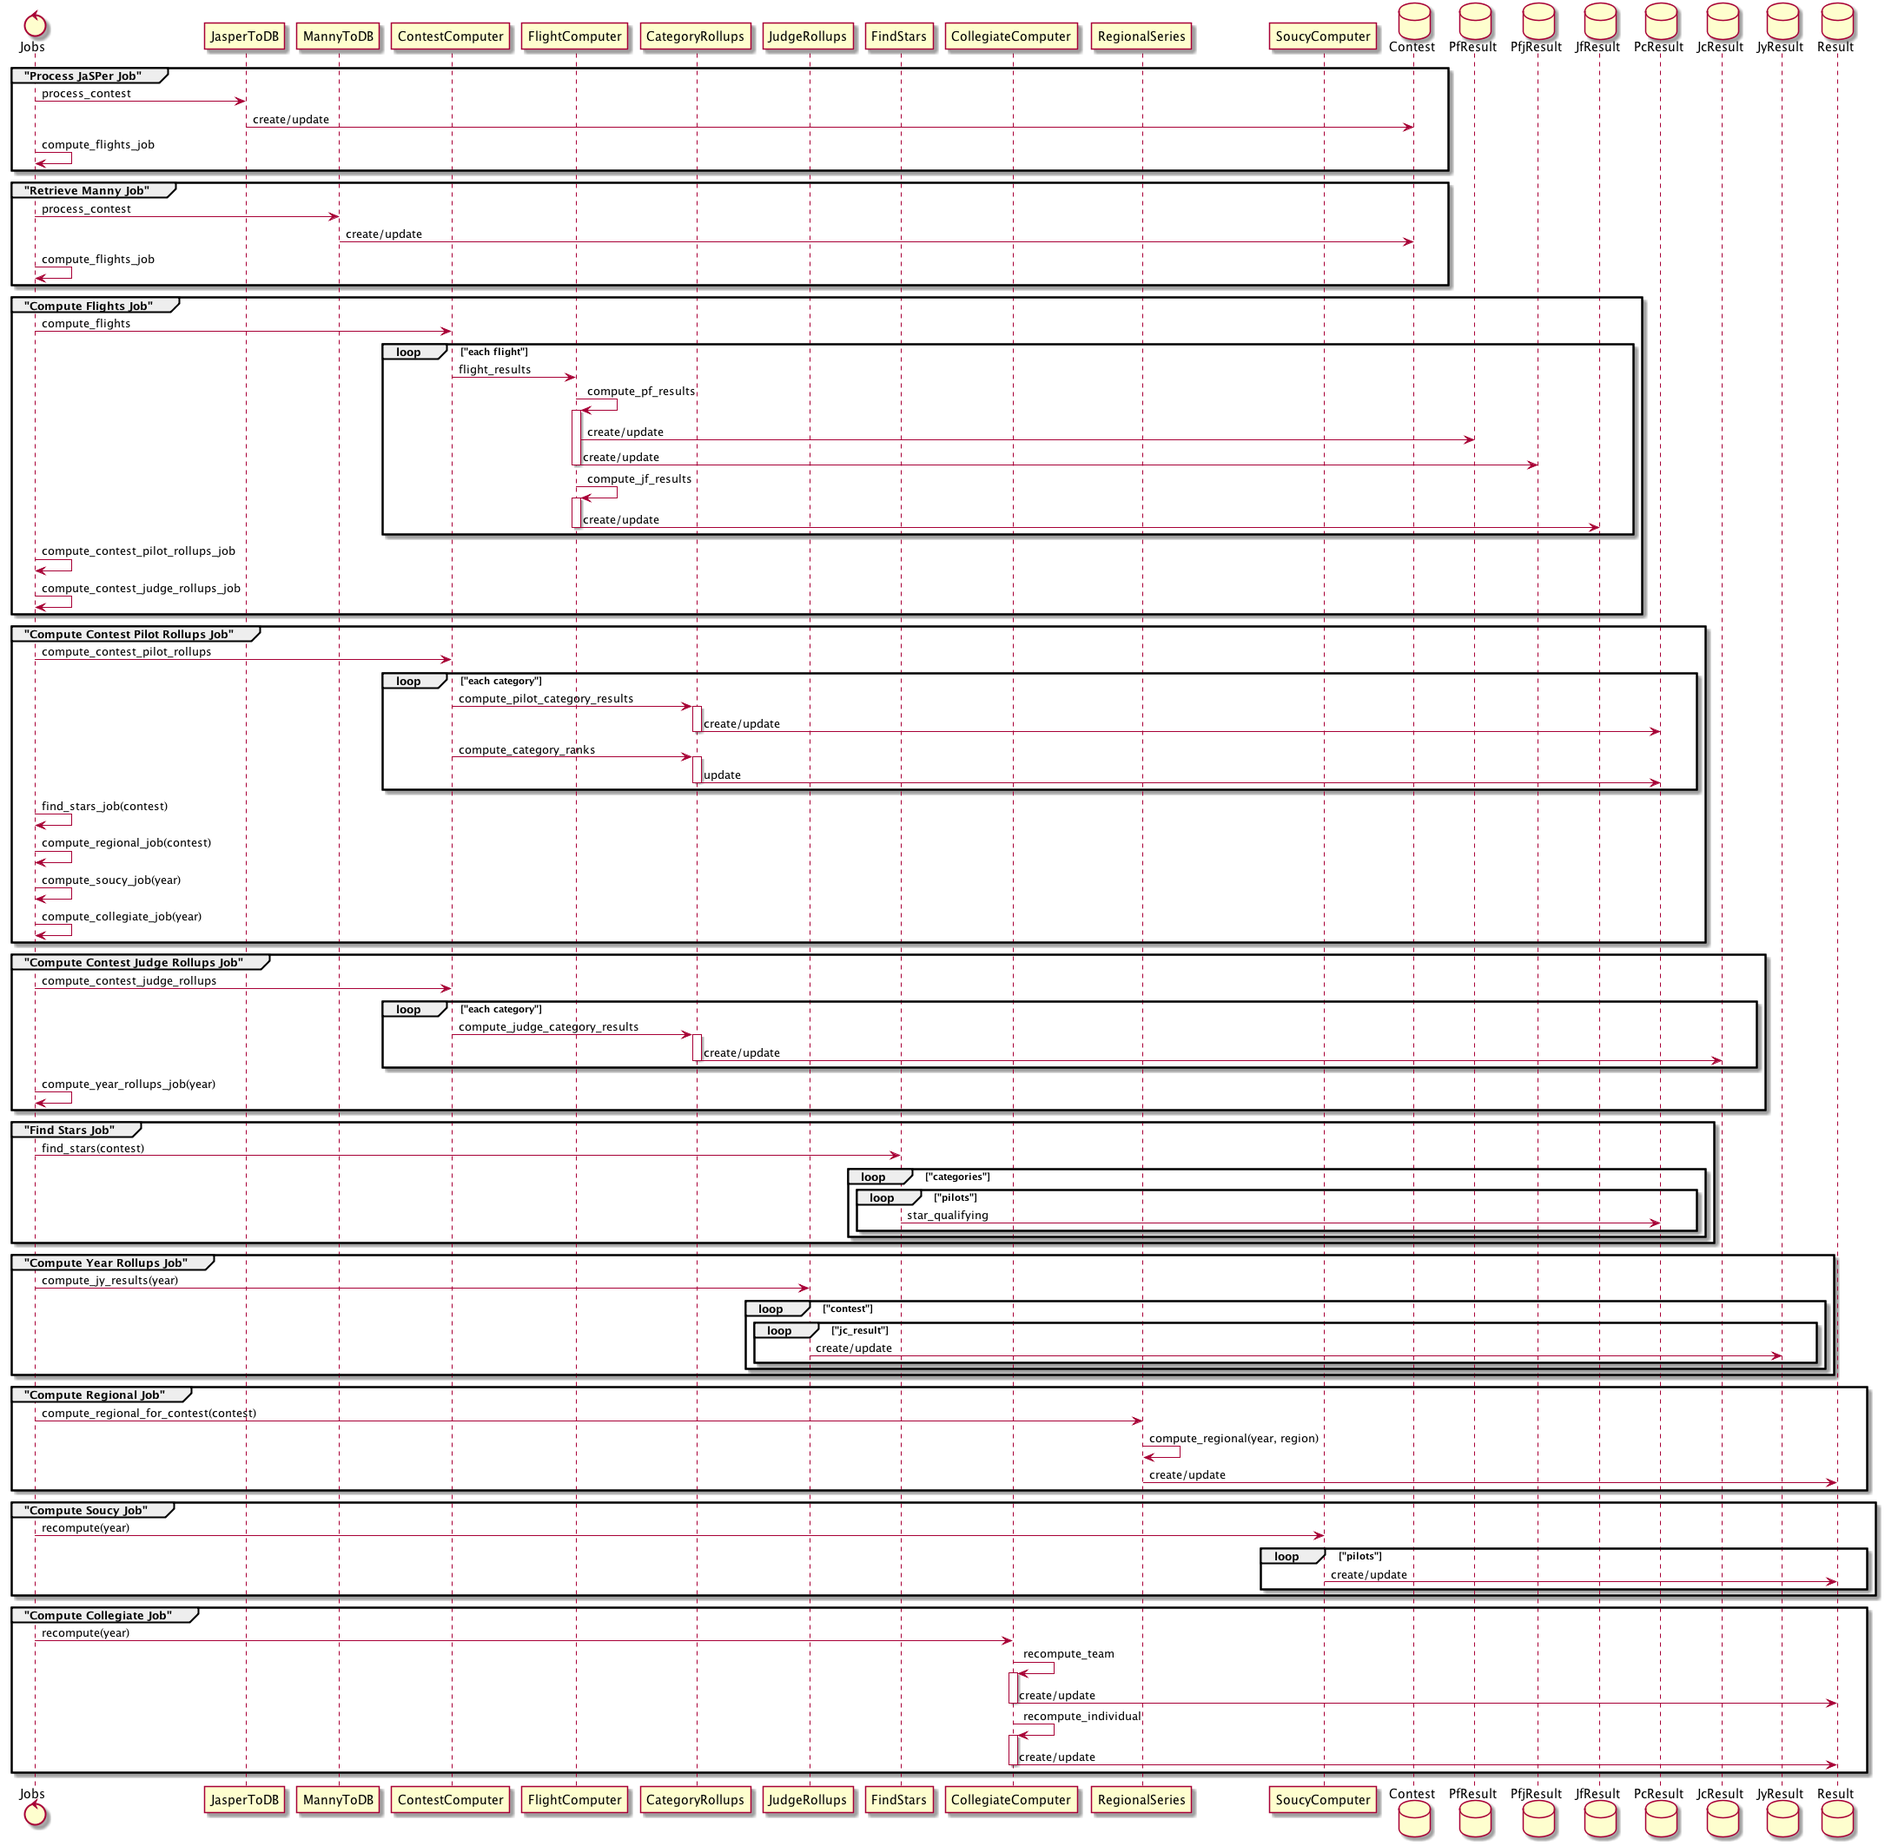
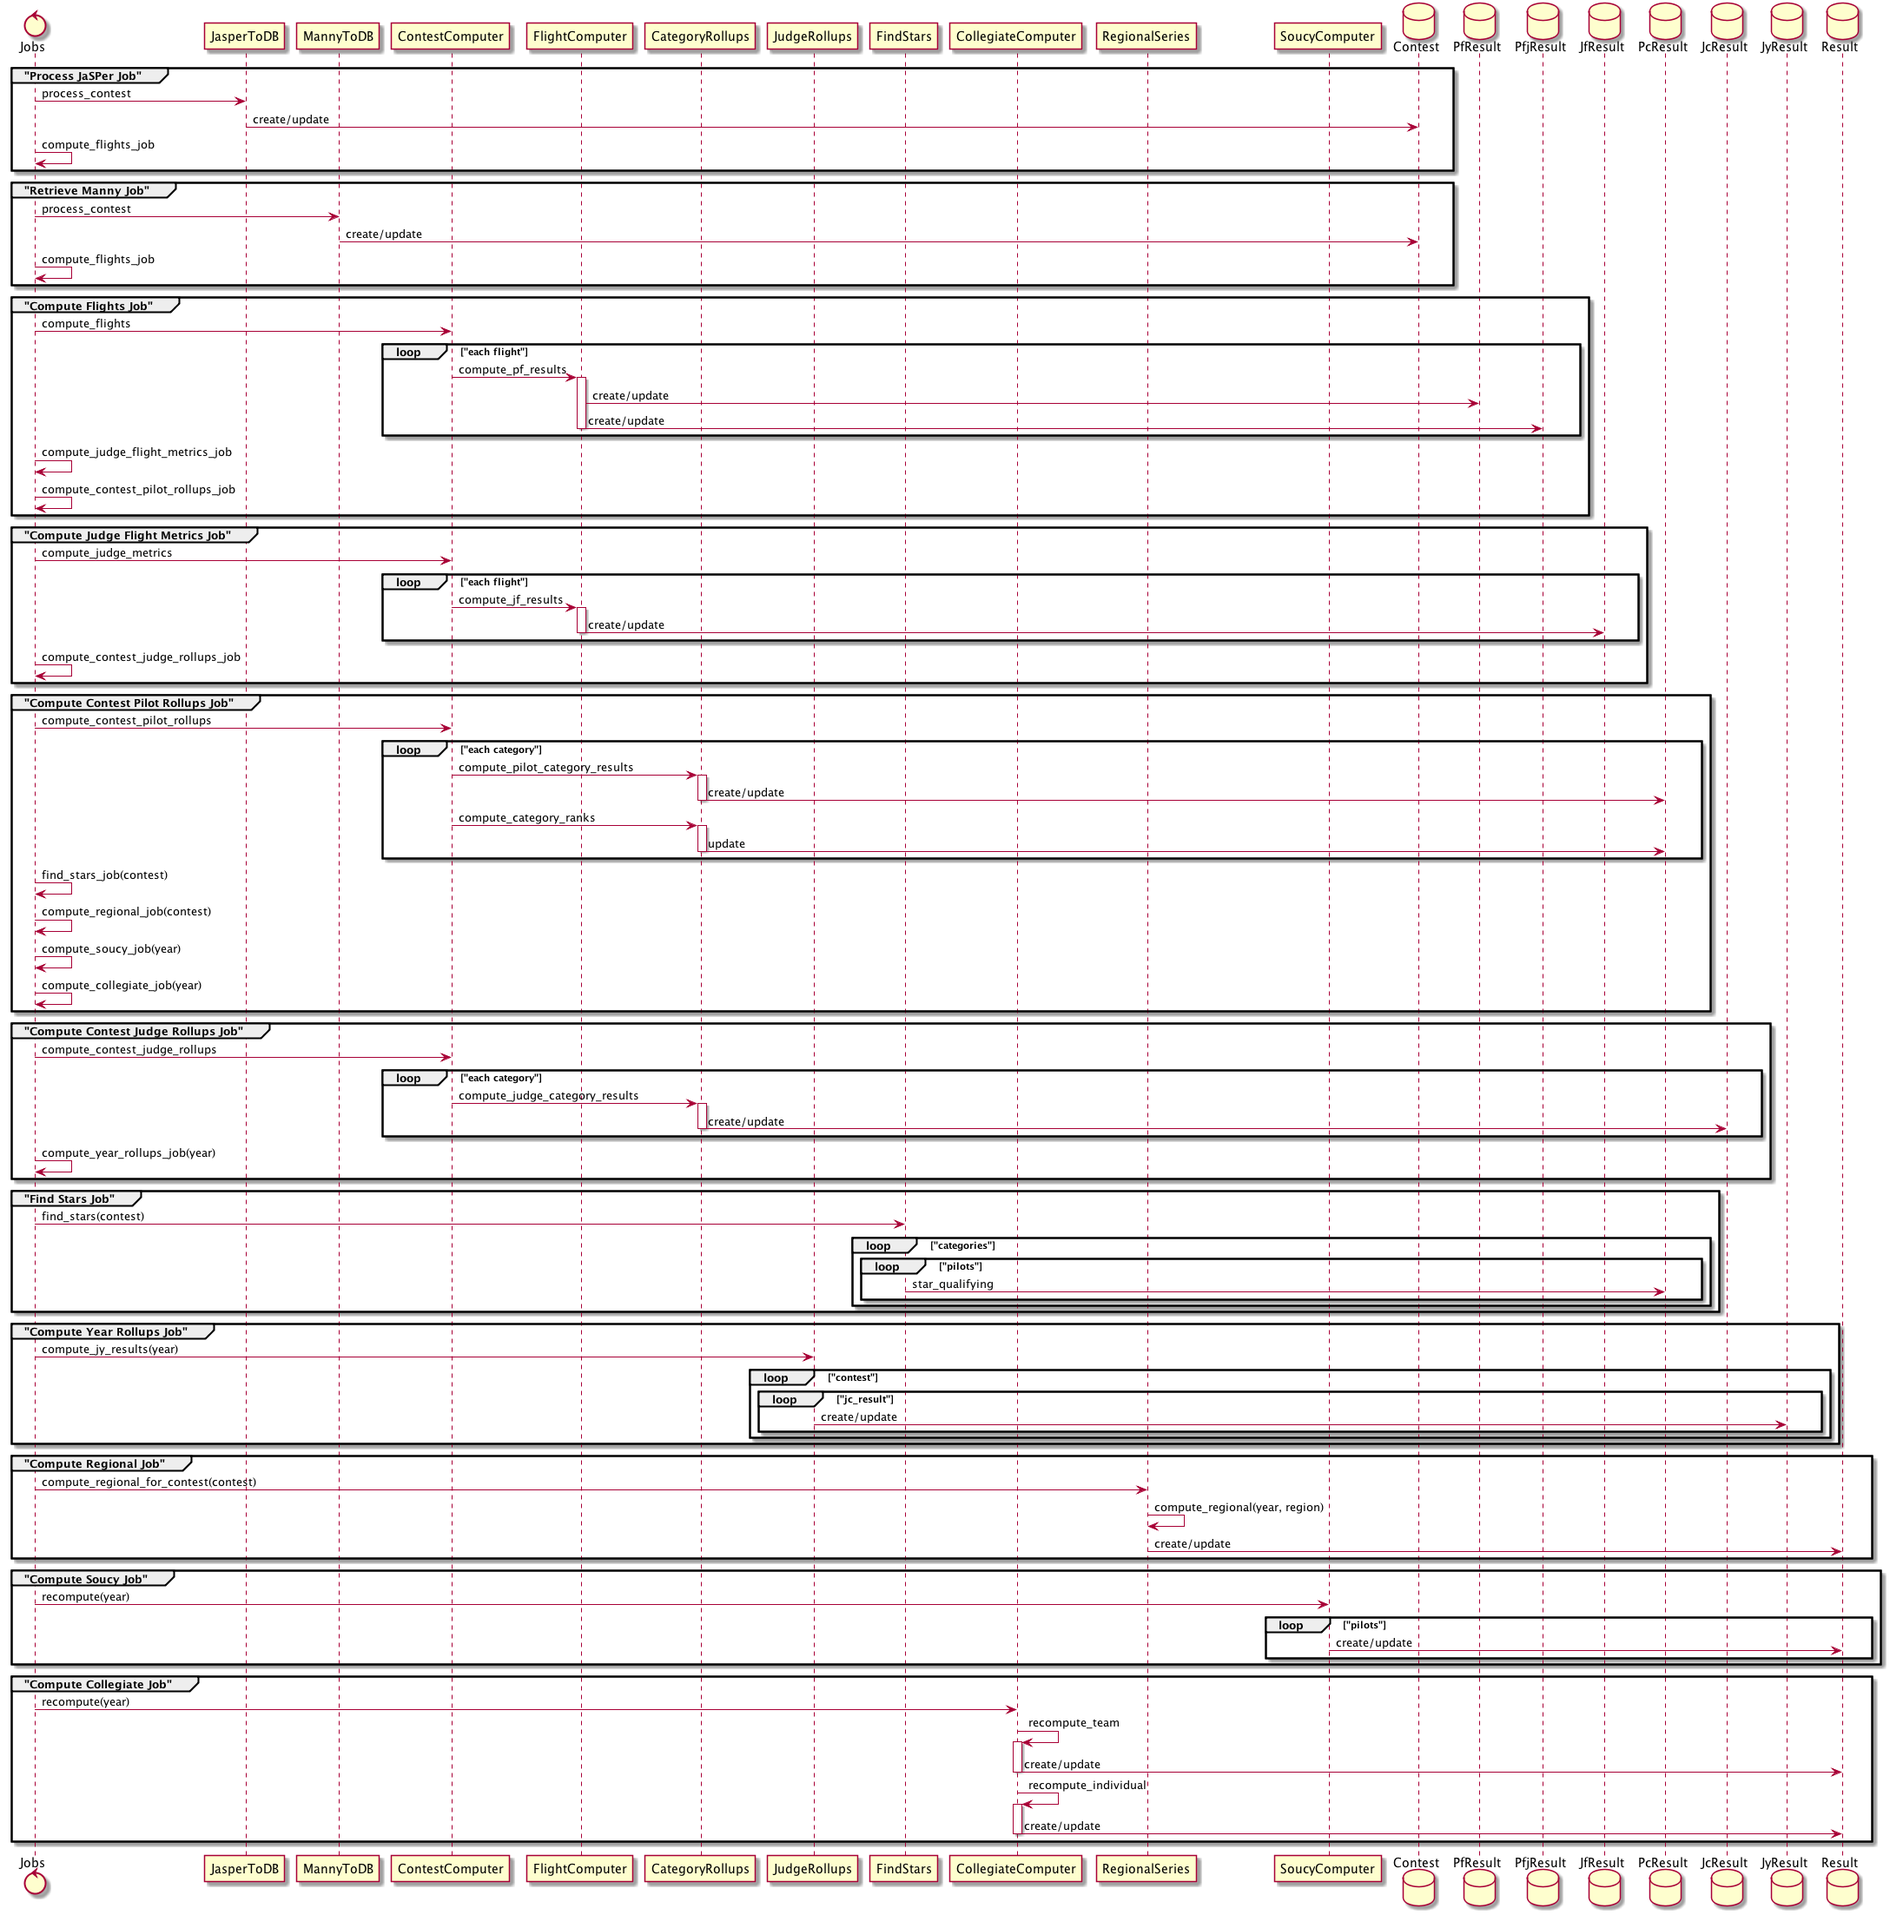
further separate judge metric computation from flight result computation

Changed region(s): [[0.0, 0.4346, 1.0, 0.9934], [0.0, 0.0, 0.988, 0.4657], [0.0, 0.9624, 0.0309, 0.9934]]

diff --git a/app/services/contest_computer.rb b/app/services/contest_computer.rb
@@ -7,17 +7,29 @@ class ContestComputer
   # compute all of the flights and the contest rollups
   def compute_results
     compute_flights
+    compute_judge_metrics
     compute_contest_pilot_rollups
     compute_contest_judge_rollups
   end
 
-  # compute results for all flights of the contest
+  # compute pilot results for all flights of the contest
   def compute_flights
     flights = @contest.flights
     flight_computer = FlightComputer.new(flights.first)
     flights.each do |flight|
       flight_computer.flight = flight
-      flight_computer.flight_results(2014 <= @contest.year)
+      flight_computer.compute_pf_results(2014 <= @contest.year)
+    end
+    @contest.save
+  end
+
+  # compute judge metrics for all flights of the contest
+  def compute_judge_metrics
+    flights = @contest.flights
+    flight_computer = FlightComputer.new(flights.first)
+    flights.each do |flight|
+      flight_computer.flight = flight
+      flight_computer.compute_jf_results
     end
     @contest.save
   end

diff --git a/lib/jobs/compute_flights_job.rb b/lib/jobs/compute_flights_job.rb
@@ -2,7 +2,7 @@
 # The job computes flight results for a contest
 module Jobs
 class ComputeFlightsJob < Struct.new(:contest)
-  
+
   include JobsSay
 
   def perform
@@ -13,14 +13,14 @@ class ComputeFlightsJob < Struct.new(:contest)
   end
 
   def error(job, exception)
-    say "Error computing flights for #{@contest.year_name}"
+    say "Error computing flight results for #{@contest.year_name}"
     record_contest_failure('compute_flights', @contest, exception)
   end
 
   def success(job)
-    say "Success computing flights for #{@contest.year_name}"
+    say "Success computing flight results for #{@contest.year_name}"
+    Delayed::Job.enqueue ComputeJudgeFlightMetricsJob.new(@contest)
     Delayed::Job.enqueue ComputeContestPilotRollupsJob.new(@contest)
-    Delayed::Job.enqueue ComputeContestJudgeRollupsJob.new(@contest)
   end
 
 end

diff --git a/lib/jobs/compute_judge_flight_metrics_job.rb b/lib/jobs/compute_judge_flight_metrics_job.rb
@@ -1,0 +1,26 @@
+# This captures a job for delayed job
+# The job computes judge flight metrics for a contest
+module Jobs
+class ComputeJudgeFlightMetricsJob < Struct.new(:contest)
+  
+  include JobsSay
+
+  def perform
+    @contest = contest
+    say "Computing judge metrics for flights in #{@contest.year_name}"
+    computer = ContestComputer.new(@contest)
+    computer.compute_judge_metrics
+  end
+
+  def error(job, exception)
+    say "Error computing flights for #{@contest.year_name}"
+    record_contest_failure('compute_flights', @contest, exception)
+  end
+
+  def success(job)
+    say "Success computing judge metrics for flights in #{@contest.year_name}"
+    Delayed::Job.enqueue ComputeContestJudgeRollupsJob.new(@contest)
+  end
+
+end
+end
